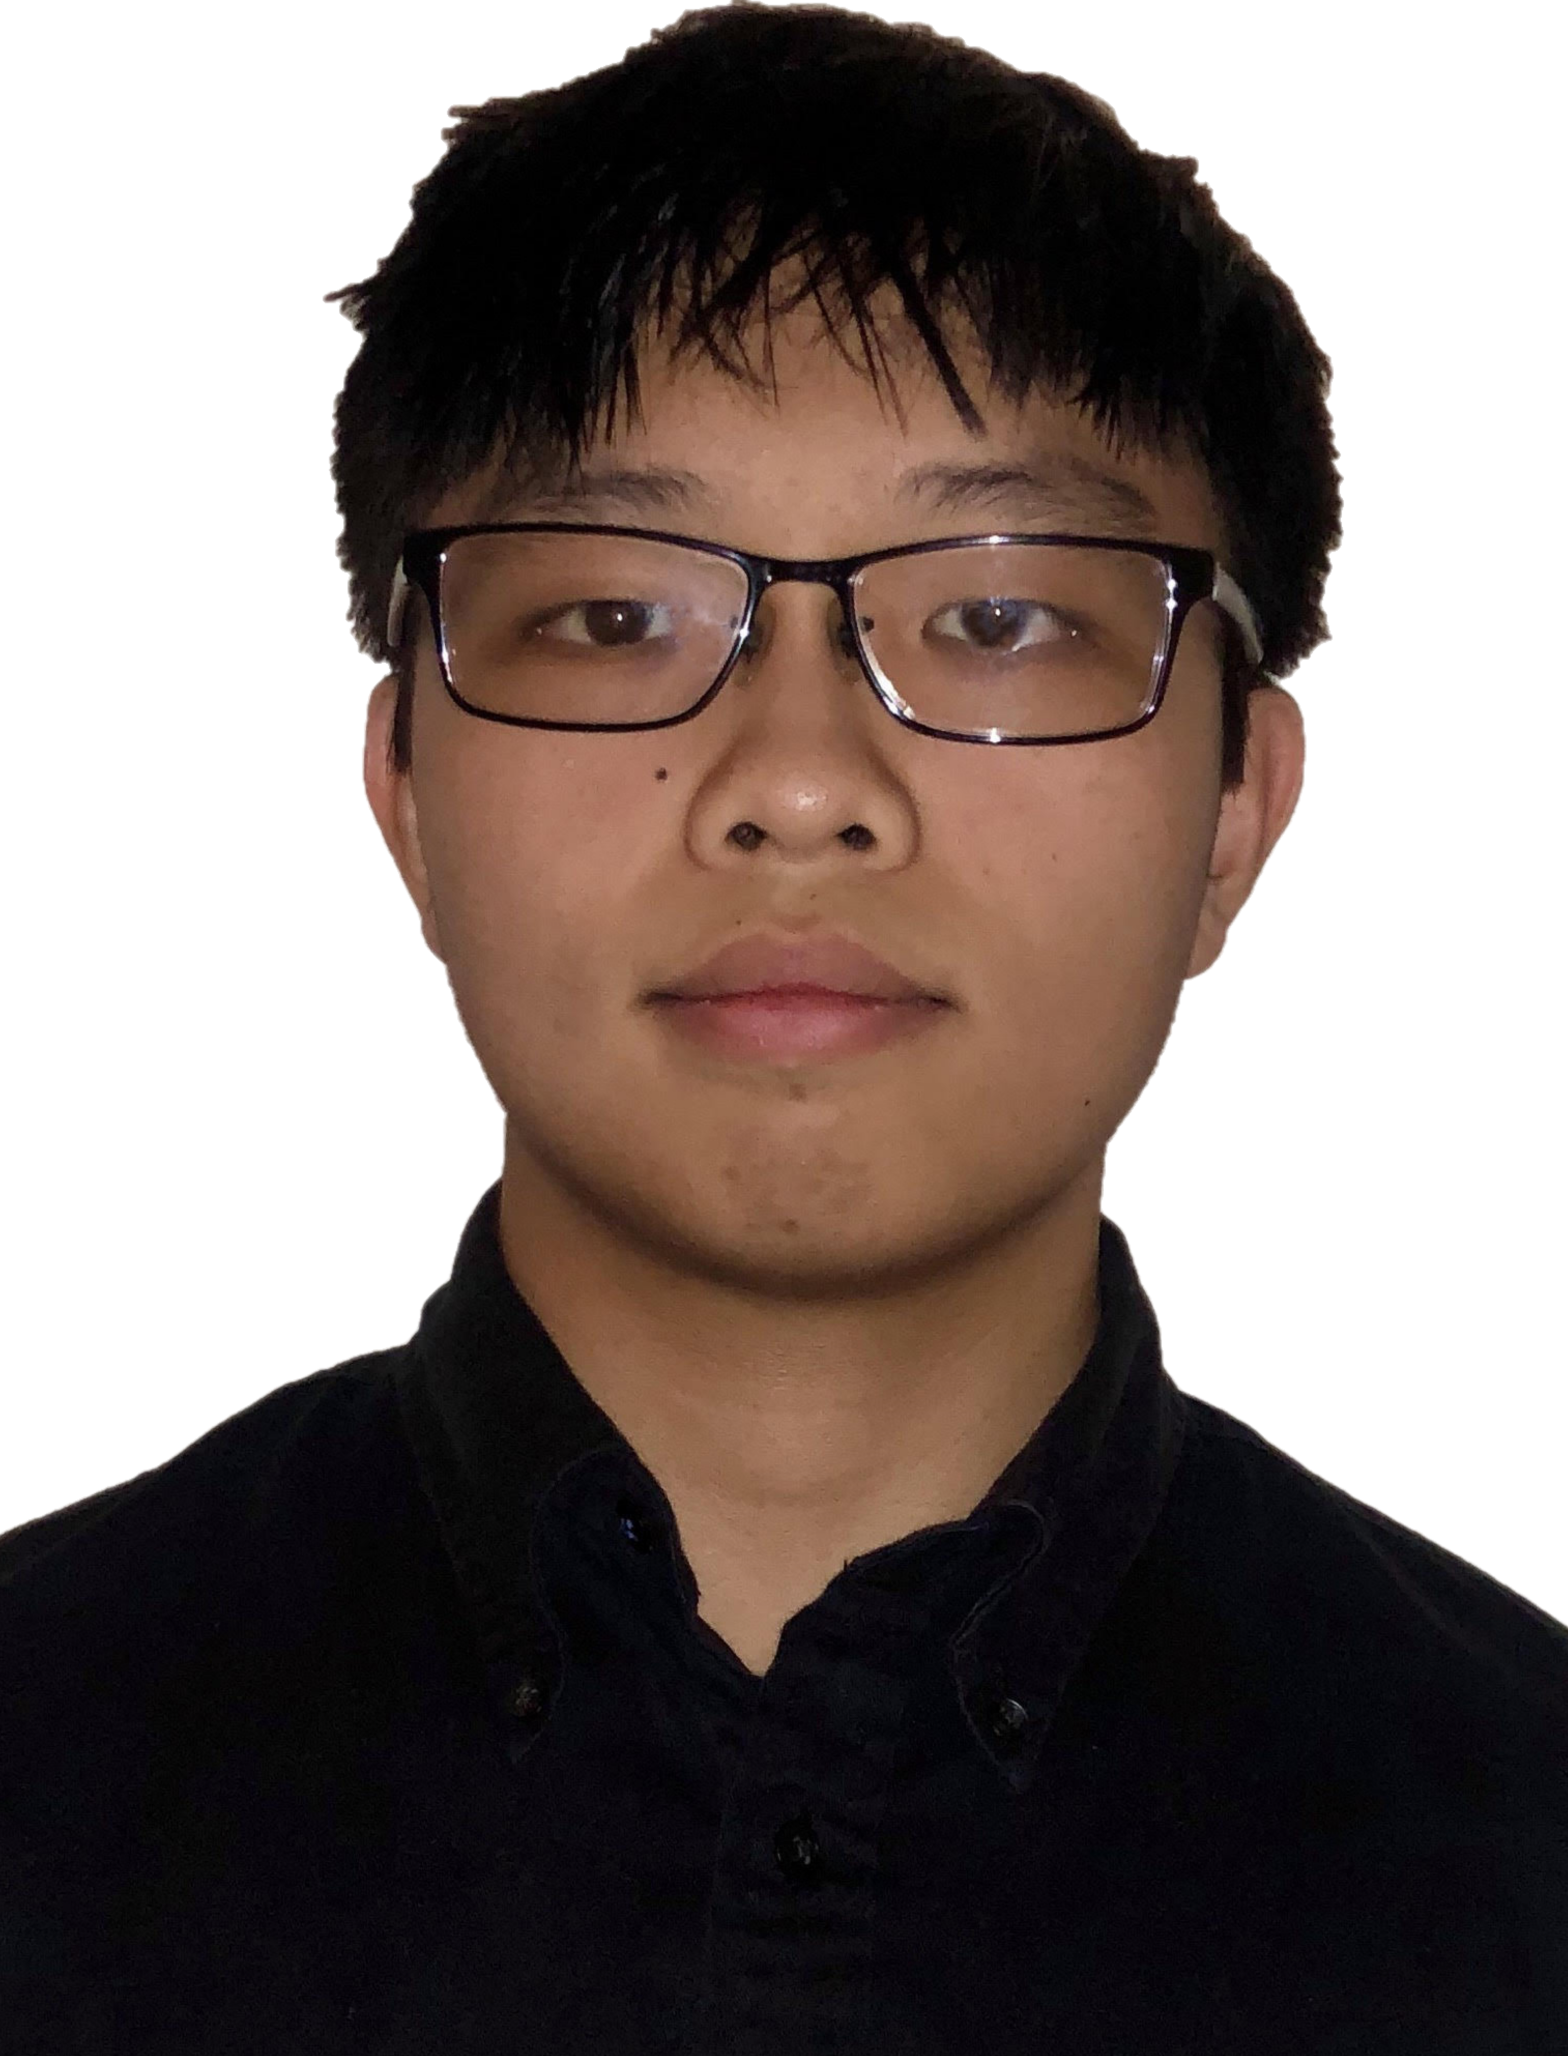
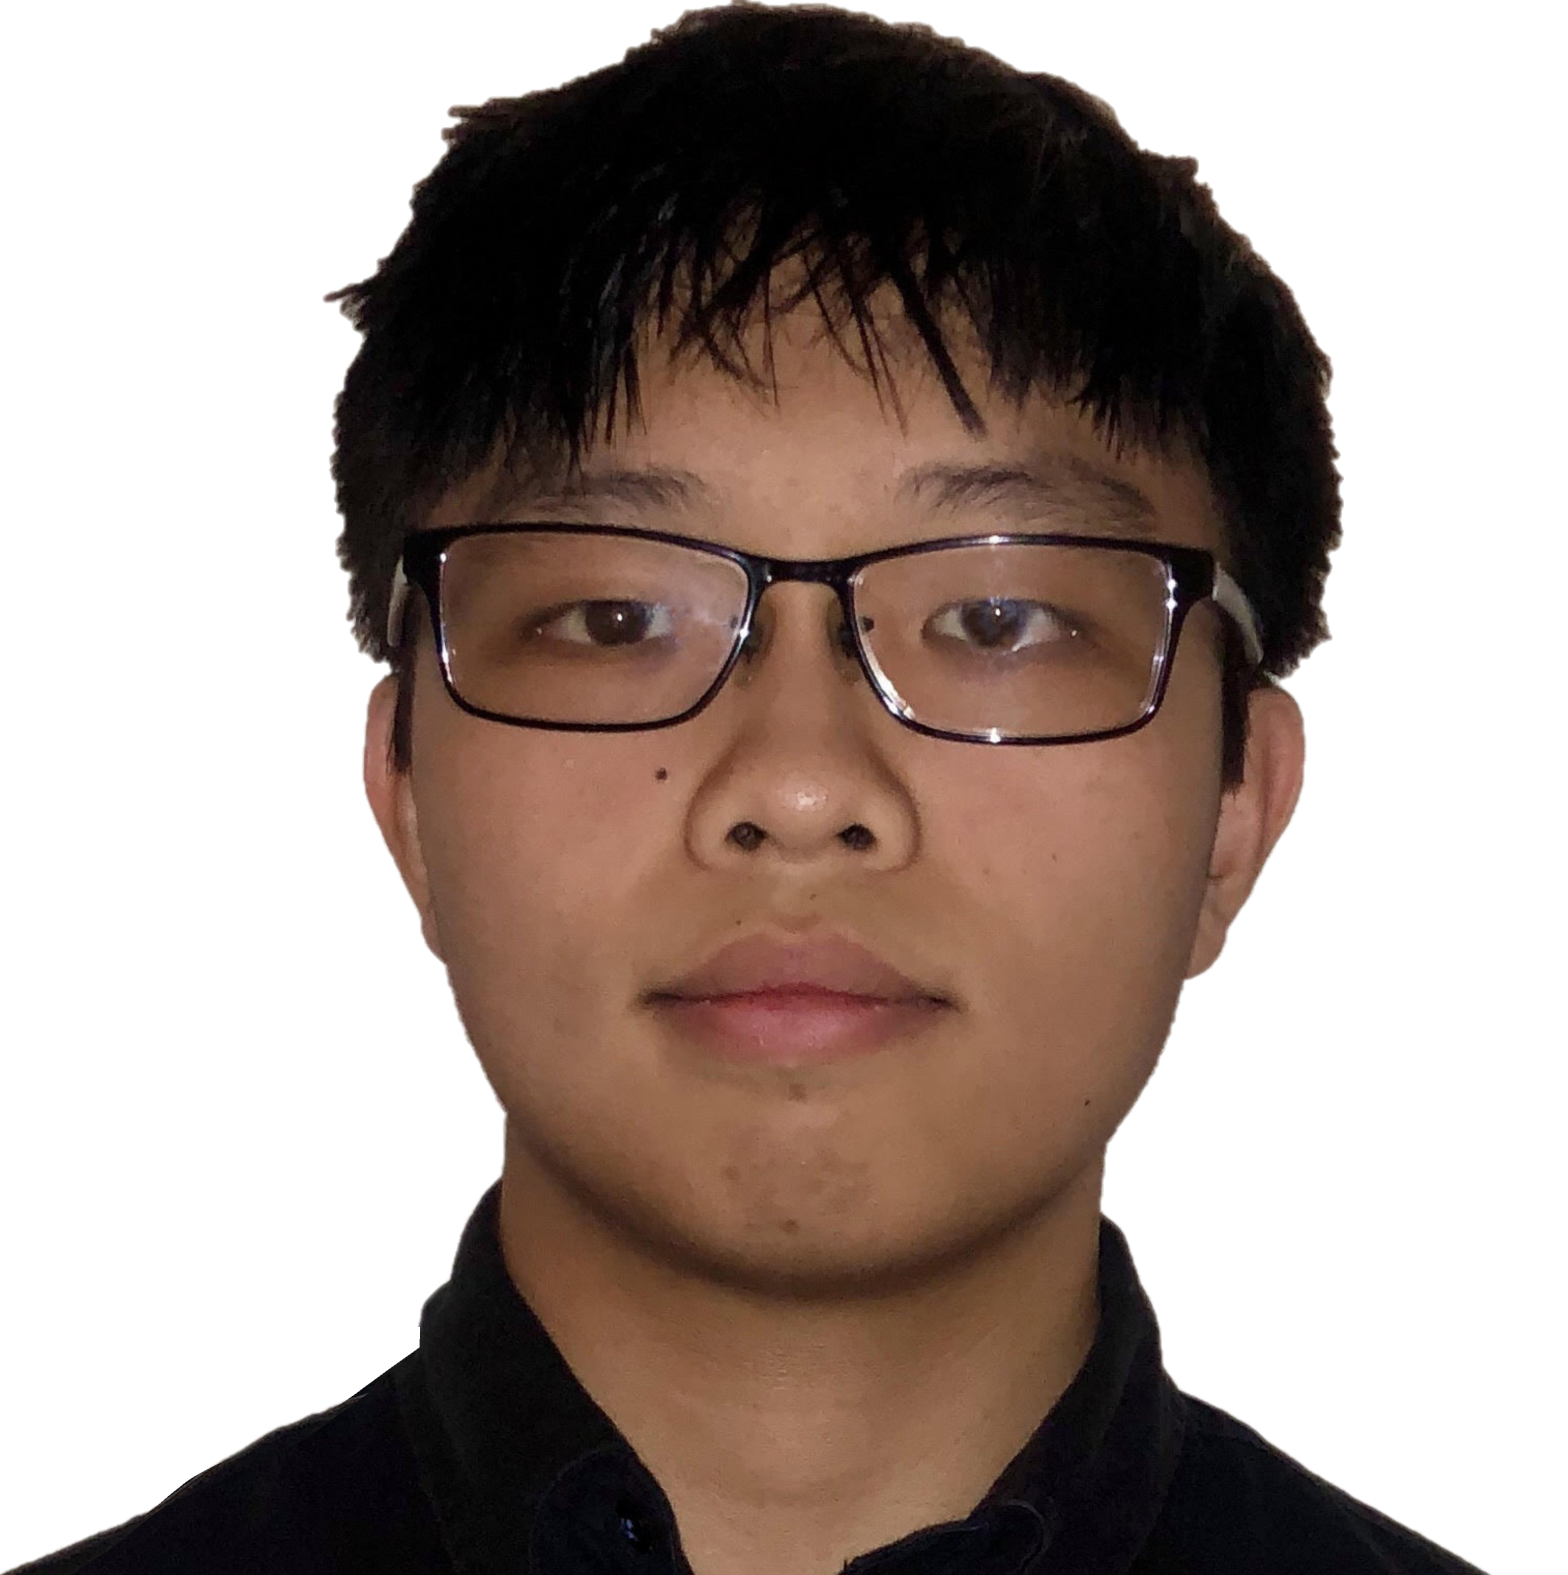
hotfix: mobile distorted image 1/1/2021

diff --git a/public/resources/loadingTransition.css b/public/resources/loadingTransition.css
@@ -193,18 +193,10 @@ div section {
 }
 
 .about-me-card img {
-    background: rgba(255,255,255, .2);
+    background: rgba(255,255,255, 0);
     overflow: hidden;
-    border-radius: 10px;
 
     height: -webkit-fill-available;
-
-    box-shadow: 0 4px 8px 0 rgba(0,0,0,0);
-    transition: 0.3s;
-}
-
-.about-me-card img:hover {
-    box-shadow: 0 4px 8px 2px rgba(0,0,0,1);
 }
 
 .projects-ideas-card {
